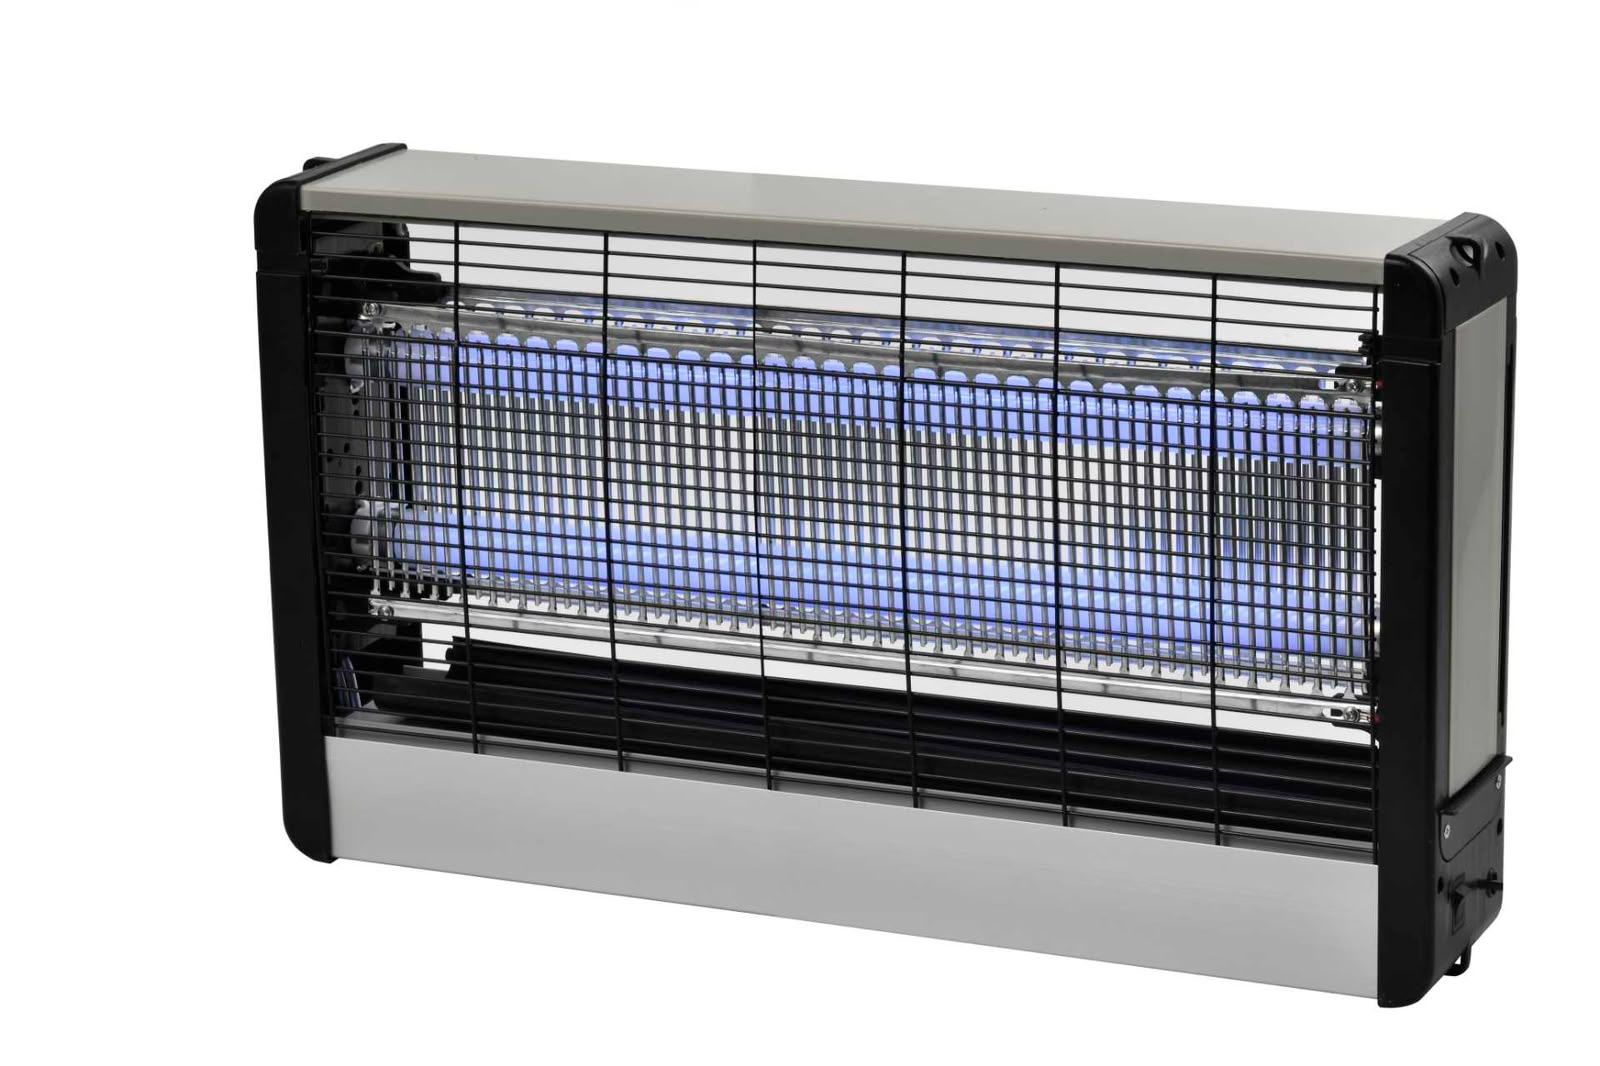
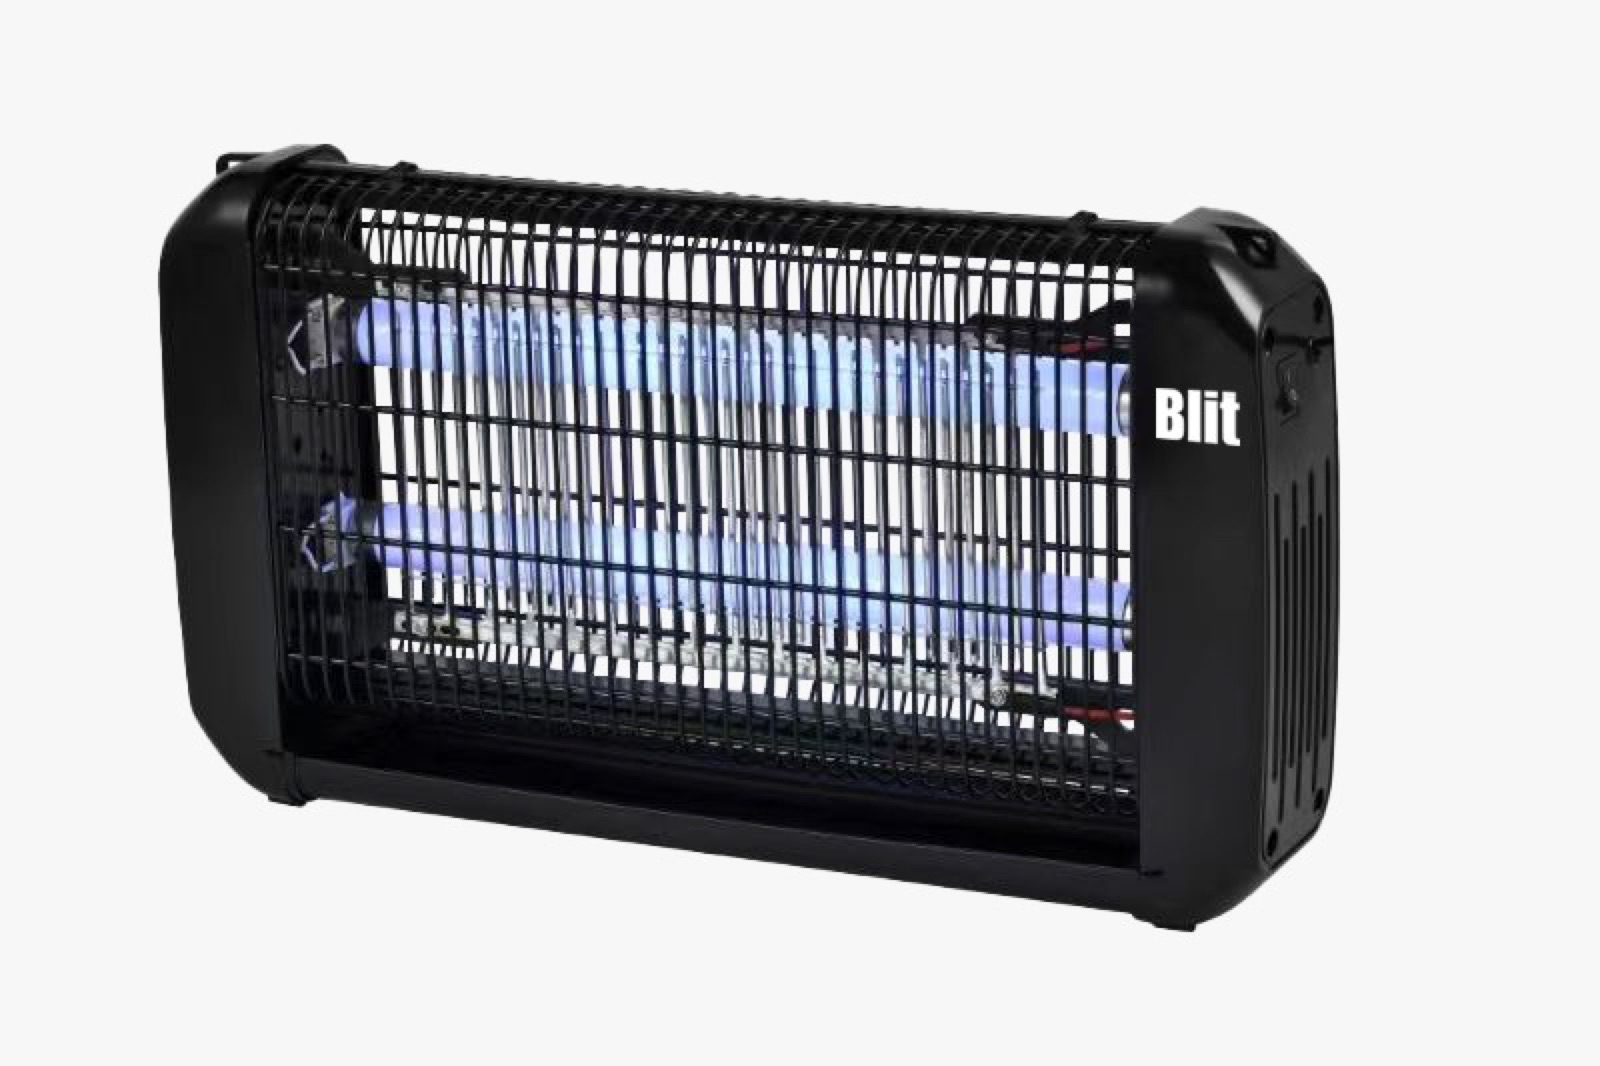
fix(insect-killer): interchange Elite Series and Prime Series product images

diff --git a/products-data.js b/products-data.js
@@ -161,7 +161,9 @@ export const IMAGE_BG_MAP = {
   "/assets/products/ventilation/industrial_stand_fan.webp": "#ffffff",
   "/assets/products/ventilation/industrial_wall_fan.webp": "#ffffff",
   "/assets/products/insect_killer/elite_series.webp": "#ffffff",
+  "/assets/products/insect_killer/elite_series.webp?v=2": "#ffffff",
   "/assets/products/insect_killer/prime_series.webp": "#ffffff",
+  "/assets/products/insect_killer/prime_series.webp?v=2": "#ffffff",
   "/assets/products/cw_range/BTCW3011-BLK.webp": "#ffffff",
   "/assets/products/cw_range/BTCW3012-BLK.webp": "#ffffff",
   "/assets/products/cw_range/BTCW3032-BLK.webp": "#ffffff",
@@ -1811,7 +1813,7 @@ export const PRODUCTS_DATA = [
     items: [
       {
         name: "BLIT Elite Series Insect Killer",
-        img: "/assets/products/insect_killer/elite_series.webp",
+        img: "/assets/products/insect_killer/elite_series.webp?v=2",
         desc: "Premium insect killer combining elegant design, durable construction, and effective UV insect control technology.",
         overview: "The BLIT Elite Series Insect Killer combines durable construction with sophisticated design and effective insect control technology. Engineered for reliable performance, the range features UV insect attraction technology, providing a dependable solution for insect management across residential, commercial, and professional indoor environments.\n\nDesigned for installation versatility and convenient maintenance, the Elite Series offers flexible mounting options to accommodate different application requirements. Its removable collection tray allows easy cleaning, while its robust construction supports long-lasting durability. The range reflects BLIT's commitment to quality, thoughtful design, and dependable insect control solutions.",
         keyFeatures: [
@@ -1826,7 +1828,7 @@ export const PRODUCTS_DATA = [
       },
       {
         name: "BLIT Prime Series Insect Killer",
-        img: "/assets/products/insect_killer/prime_series.webp",
+        img: "/assets/products/insect_killer/prime_series.webp?v=2",
         desc: "Premium aluminium-body insect killer featuring a wide-open grille design and effective UV insect attraction technology.",
         overview: "The BLIT Prime Series Insect Killer features an aluminium body, combining durable construction with contemporary design and effective insect control technology. Its distinctive wide-open grille design and UV insect attraction system provide a dependable solution for insect management across residential, commercial, and professional indoor environments.\n\nDesigned for reliable performance and convenient maintenance, the Prime Series offers versatile mounting options to accommodate different installation requirements. Its removable collection tray allows easy cleaning, while the robust aluminium construction supports lasting durability. The range reflects BLIT's commitment to quality, practical functionality, and dependable insect control solutions.",
         keyFeatures: [
